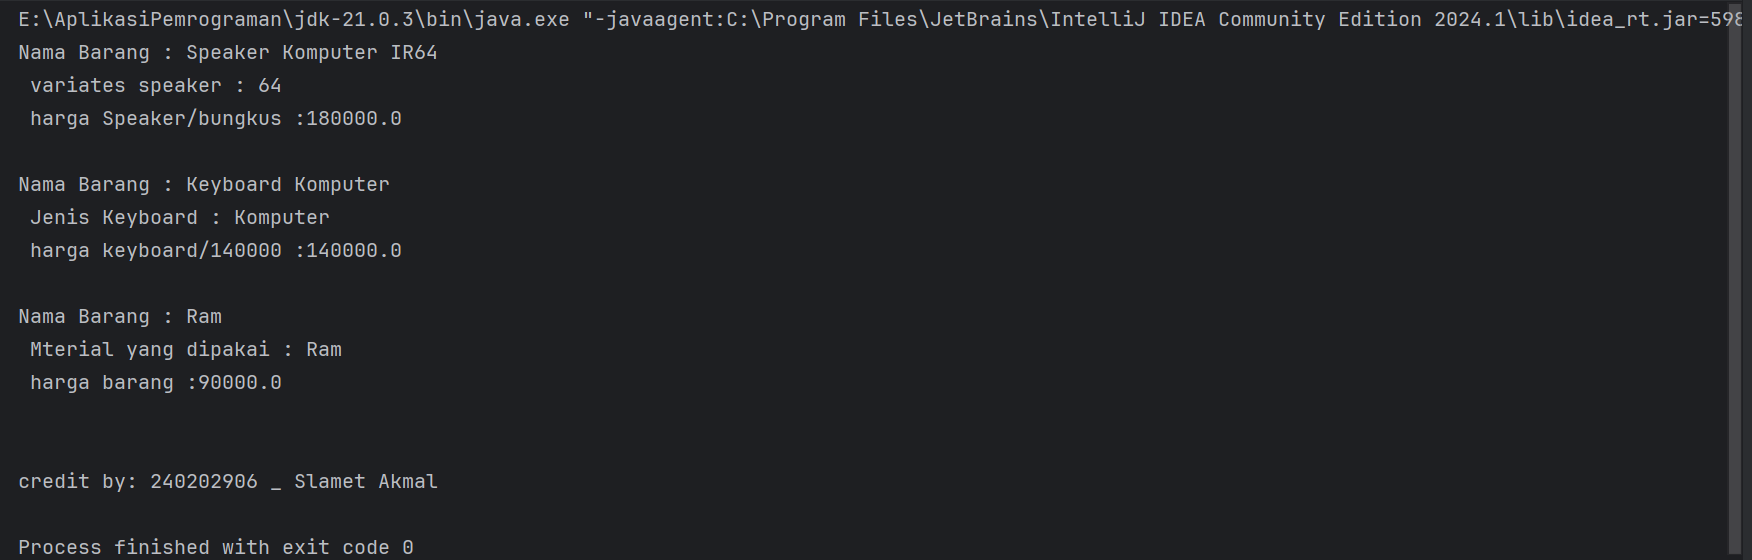
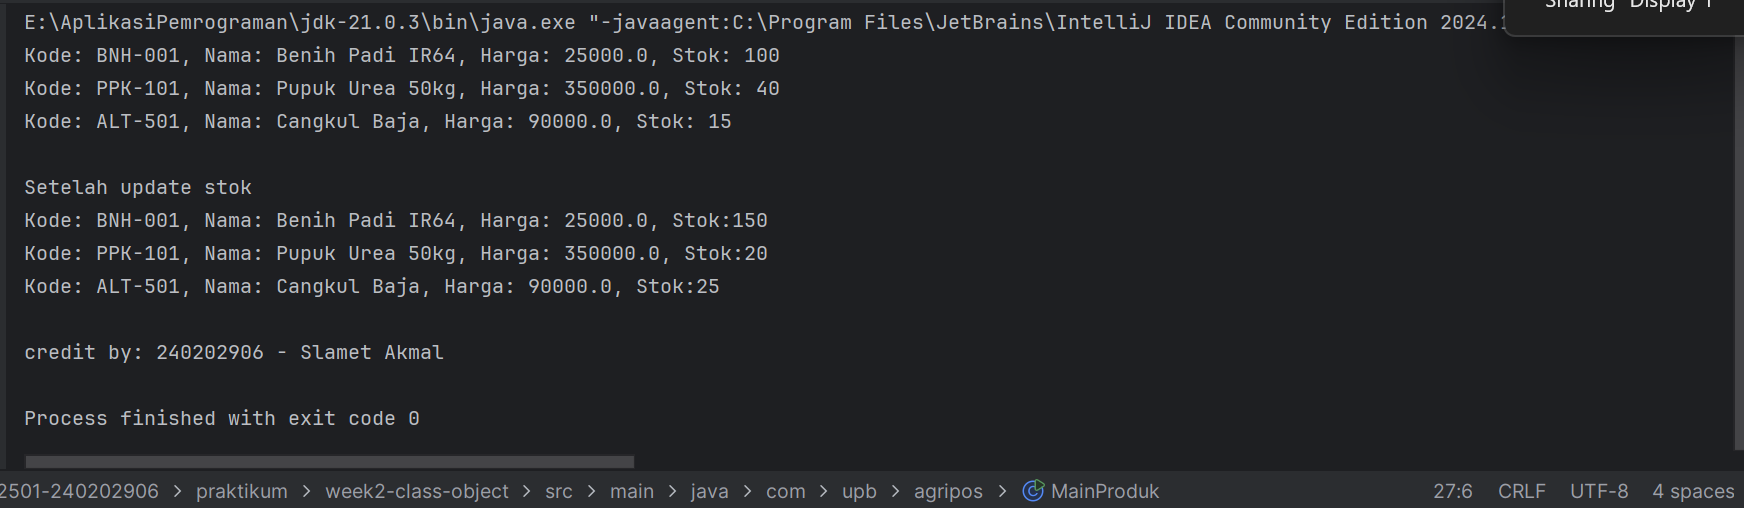
.idea/uiDesigner.xml praktikum/week3-inheritance/screenshots/Screenshot 2025-11-07 215157.png praktikum/week3-inheritance/src/main/java/com/upb/agripos/model/AlatPertanian.java praktikum/week3-inheritance/src/main/java/com/upb/agripos/model/Benih.java praktikum/week3-inheritance/src/main/java/com/up

Changed region(s): [[0.0, 0.0, 1.0, 1.0], [0.0, 0.2953, 0.4644, 0.7087], [0.0, 0.7972, 0.6812, 1.0]]

diff --git a/praktikum/week3-inheritance/src/main/java/com/upb/agripos/MainInheritance.java b/praktikum/week3-inheritance/src/main/java/com/upb/agripos/MainInheritance.java
@@ -1,18 +1,18 @@
 package main.java.com.upb.agripos;
 
-import main.java.com.upb.agripos.model.AlatKomputer;
-import main.java.com.upb.agripos.model.Speaker;
-import main.java.com.upb.agripos.model.Keyboard;
+import main.java.com.upb.agripos.model.AlatPertanian;
+import main.java.com.upb.agripos.model.Benih;
+import main.java.com.upb.agripos.model.Pupuk;
 import main.java.com.upb.agripos.util.CreditBy;
 
 public class MainInheritance {
     public static void main(String[] args) {
-        Speaker s = new Speaker("SPK-001", "Speaker Komputer IR64", 180000,100, "64");
-        Keyboard k = new Keyboard("KYB-101", "Keyboard Komputer", 140000, 40, "Komputer");
-        AlatKomputer a = new AlatKomputer("ALT-501", "Ram", 90000, 15, "Ram");
+        Pupuk b = new Pupuk("BNH-001", "Banih Padi IR64", 25000,100, "IR64");
+        Benih p = new Benih("PPK-101", "Pupuk Urea", 350000, 40, "Komputer");
+        AlatPertanian a = new AlatPertanian("ALT-501", "Cangkul Baja", 90000, 15, "Baja");
 
-        s.deskripsi();
-        k.deskripsi();
+        b.deskripsi();
+        p.deskripsi();
         a.deskripsi();
 
 

diff --git a/praktikum/week3-inheritance/src/main/java/com/upb/agripos/model/Benih.java b/praktikum/week3-inheritance/src/main/java/com/upb/agripos/model/Benih.java
@@ -1,0 +1,18 @@
+package main.java.com.upb.agripos.model;
+
+public class Benih extends Produk {
+
+    private String varietas;
+
+    public Benih(String kode, String nama, double harga, int stok, String varietas) {
+        super(kode, nama, harga, stok);
+        this.varietas= varietas;
+    }
+
+    public String getVarietas() { return  varietas; }
+    public void setVarietas(String jenis) { this.varietas = varietas; }
+
+    public void deskripsi() {
+        System.out.println("Nama Barang : " + getNama() + "\n Varietas benih : " + getVarietas() + "\n harga Benih/bungkus :" + getHarga() +"\n");
+    }
+}

diff --git a/praktikum/week3-inheritance/src/main/java/com/upb/agripos/model/Pupuk.java b/praktikum/week3-inheritance/src/main/java/com/upb/agripos/model/Pupuk.java
@@ -1,0 +1,18 @@
+package main.java.com.upb.agripos.model;
+
+public class Pupuk extends Produk {
+
+    private  String jenis;
+
+    public Pupuk(String kode, String nama, double harga, int stok, String varietas) {
+        super(kode, nama, harga, stok);
+        this.jenis = jenis;
+    }
+
+    public String getJenis() { return  jenis; }
+    public  void  setJenis(String varietas) { this.jenis = varietas; }
+
+    public void deskripsi() {
+        System.out.println("Nama Barang : " + getNama() + "\n   Jenis Pupuk : " + getJenis() + "\n    harga pupuk/20kg :" + getHarga() +"\n");
+    }
+}

diff --git a/praktikum/week3-inheritance/src/main/java/com/upb/agripos/model/AlatPertanian.java b/praktikum/week3-inheritance/src/main/java/com/upb/agripos/model/AlatPertanian.java
@@ -1,10 +1,10 @@
 package main.java.com.upb.agripos.model;
 
-public class AlatKomputer extends Produk{
+public class AlatPertanian extends Produk{
 
     private String material;
 
-    public AlatKomputer(String kode, String nama, double harga, int stok, String material) {
+    public AlatPertanian(String kode, String nama, double harga, int stok, String material) {
         super(kode, nama,harga,stok );
         this.material = material;
     }

diff --git a/praktikum/week2-class-object/src/main/java/com/upb/agripos/MainProduk.java b/praktikum/week2-class-object/src/main/java/com/upb/agripos/MainProduk.java
@@ -25,4 +25,3 @@ public class MainProduk {
         CreditBy.print("240202906", "Slamet Akmal");
         }
     }
-}

diff --git a/praktikum/week3-inheritance/laporan.md b/praktikum/week3-inheritance/laporan.md
@@ -110,19 +110,21 @@ public class AlatKomputer extends Produk{
 }
 ```
 ## MainInheitance.java
+
 ```java
 package main.java.com.upb.agripos;
 
-import main.java.com.upb.agripos.model.AlatKomputer;
+import main.java.com.upb.agripos.model.AlatPertanian;
+import main.java.com.upb.agripos.model.Pupuk;
 import main.java.com.upb.agripos.model.Speaker;
-import main.java.com.upb.agripos.model.Keyboard;
+import main.java.com.upb.agripos.model.Benih;
 import main.java.com.upb.agripos.util.CreditBy;
 
 public class MainInheritance {
     public static void main(String[] args) {
-        Speaker s = new Speaker("SPK-001", "Speaker Komputer IR64", 180000,100, "64");
-        Keyboard k = new Keyboard("KYB-101", "Keyboard Komputer", 140000, 40, "Komputer");
-        AlatKomputer a = new AlatKomputer("ALT-501", "Ram", 90000, 15, "Ram");
+        Pupuk s = new Pupuk("SPK-001", "Speaker Komputer IR64", 180000, 100, "64");
+        Benih k = new Benih("KYB-101", "Keyboard Komputer", 140000, 40, "Komputer");
+        AlatPertanian a = new AlatPertanian("ALT-501", "Ram", 90000, 15, "Ram");
 
         s.deskripsi();
         k.deskripsi();
